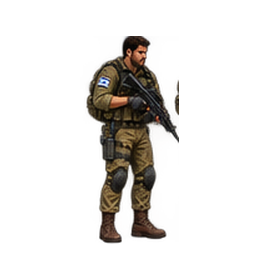
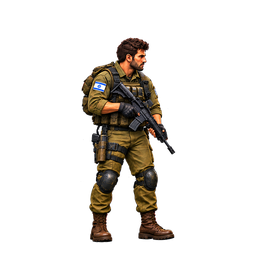
Replace player_male idle and run with cleaner 4-frame sets
Both delivered as single combined preview images. idle had no real alpha
(a flat RGB render composited over a light checkerboard for preview,
plus a text label under each pose) - recovered transparency via a
border-connected flood fill matching the checkerboard's own two known
tile colors specifically (never a dark-pixel/threshold key), which can't
touch a white element that's actually part of the character since no
such tile-colored path connects it to the border. run already had a
real alpha channel; two of its crops initially leaked a sliver of the
neighboring pose from their padded bounding box, fixed by masking out
any pixel belonging to a different connected component before saving.

Both normalized onto the same 256x256 canvas / feet-anchor(y=244)
convention already used by the rest of player_male, sharing the exact
scale factor established for idle (run's own native resolution isn't
used to rescale it - the engine reads one scale factor from idle and
applies it to every animation's canvas uniformly, so run has to match
idle's real-world-pixels-per-canvas-pixel ratio to read at the correct
size). idle: 8 -> 4 frames. run: 6 -> 4 frames.

Verified live via a mobile-browser smoke test: idle standing scale
matches the environment, run animates at the correct scale next to an
enemy, and Player.js's rifle animation-state renderer had no console
errors loading the new manifest entries. Minimal targeted checks
(asset-registry, render-gait, muzzle-scale) all still pass.
[…]

Changed region(s): [[0.3125, 0.125, 0.7188, 0.9688]]

diff --git a/ART_INTEGRATION_STATUS.md b/ART_INTEGRATION_STATUS.md
@@ -38,6 +38,57 @@ No gameplay rule, physics constant, or collision dimension changed —
 only the stair-ramp *landing candidate* logic and the player's animation
 bookkeeping/render transform.
 
+## player_male run: replaced with a cleaner 4-frame set
+
+Same pattern as idle below, delivered as a single combined image (4 running
+poses, no labels this time). Unlike the idle delivery, this one had a real
+alpha channel already (background genuinely transparent, confirmed
+numerically) — no checkerboard-recovery step needed. Extracted via
+connected-component analysis; two crops initially picked up a sliver of the
+*neighboring* pose inside their padded bounding box (the neighbor is a
+separate component but still fell inside the rectangular crop margin) —
+fixed by masking out any pixel belonging to a different component before
+saving, not just cropping a rectangle, so no frame can ever contain another
+pose's pixels regardless of padding.
+
+Normalized using the *same* scale factor established for the new idle
+batch (target standing height ÷ that idle batch's own native pixel height)
+rather than recomputing a fresh factor from this image's own resolution -
+the engine applies one scale (read from `idle`) to every animation's
+canvas uniformly, so `run` has to share idle's real-world-pixels-per-
+canvas-pixel ratio to read at the correct size next to it. The result is
+naturally shorter than idle on the canvas (~177px vs idle's 208px), which
+is correct: a leaning running pose measures less top-to-bottom than
+standing upright, not a bug. `assets/art/runtime/characters/player_male/run/`
+now has 4 files (was 6); manifest regenerated to match. Verified live
+(mobile smoke test) at the correct scale next to an enemy and the
+environment.
+
+## player_male idle: replaced again with a cleaner 4-frame set
+
+The `idle` animation was replaced a second time with a higher-resolution,
+cleaner 4-frame set (`IDLE_01`-`IDLE_04`) delivered as one combined preview
+image. That image had no real alpha channel — it was a flat RGB render of
+the 4 (already tightly cropped) characters composited over a light gray/
+white checkerboard for preview purposes, plus a text label under each.
+Recovered transparency without any dark-pixel/threshold keying: flood-
+filled the background starting from the image border, expanding only
+through pixels matching the checkerboard's own two known tile colors
+(~`#DCDDE1`/`#FDFDFD`) — since that fill can only reach pixels *connected to
+the border through checkerboard-colored pixels*, it can never eat into a
+white/light element that's actually part of the character (e.g. the flag's
+white stripe), no matter how close that color is to a tile color, because
+no such connected path exists through the character's silhouette. Verified
+by eye: all 4 frames fully opaque, flag patches intact, nothing leaked.
+
+The 4 frames were normalized through the same pipeline as before (256x256
+canvas, bottom-center feet anchor at y=244, scaled from their own native
+height to the same 208px canvas-space standing height already baked into
+walk/run/shoot/etc.), so they read at the same on-screen scale as every
+other player_male animation with no other file needing to change.
+`assets/art/runtime/characters/player_male/idle/` now has 4 files (was 8);
+`manifest.json`'s `player_male.idle.*` entries were regenerated to match.
+
 ## Player male: replaced with the approved master animation sheet
 
 The player_male master sheet (a single 1536x1024 image, one character in many
